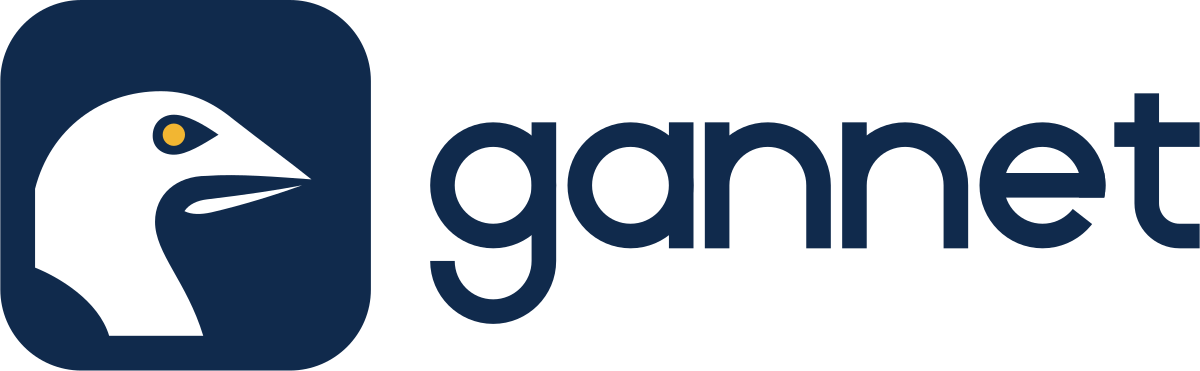
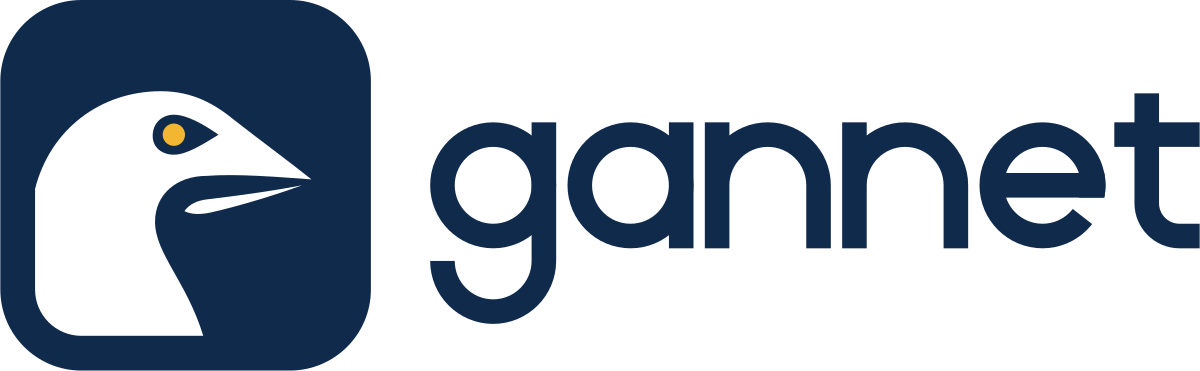
fix(brand): the back of the neck runs straight, and its corner rounds with the tile

Changed region(s): [[0.0308, 0.7116, 0.0925, 0.9191]]

diff --git a/assets/_gen/logo.py b/assets/_gen/logo.py
@@ -47,8 +47,7 @@ HEAD = (
     " C414 242 344 236 292 240"        # underside of the upper mandible
     " C240 240 204 272 204 318"        # gape corner, into the chin
     " C204 372 258 420 286 512"        # throat to the bottom edge
-    " L126 512"
-    " C108 452 40 412 0 396"           # back of the neck
+    " L0 512"                          # back of the neck, straight down
     " Z"
 )
 
@@ -75,12 +74,16 @@ def mark_body(tile=NAVY, uid="t"):
     cx, cy, r = EYE
     s = (512 - 2 * PAD) / 512
     inner_r = TILE_R - PAD
-    # Rounded at the top, square at the bottom: the neck ends in a straight
-    # line across the frame, not in a curve (Dan, 22 Oct 2026: "dont like the
-    # curved bottom").
+    # The frame's corners are concentric with the tile's, so where the neck
+    # meets the bottom-left corner it rounds with the navy curve outside it.
+    # The back of the neck runs straight down to that corner rather than
+    # sweeping into a curved notch (Dan, 22 Oct 2026: "that can be straighten
+    # but round the corner so matches the blue curve").
     a, b = PAD, 512 - PAD
     frame = (f"M{a} {a + inner_r} A{inner_r} {inner_r} 0 0 1 {a + inner_r} {a} H{b - inner_r} "
-             f"A{inner_r} {inner_r} 0 0 1 {b} {a + inner_r} V{b} H{a} Z")
+             f"A{inner_r} {inner_r} 0 0 1 {b} {a + inner_r} V{b - inner_r} "
+             f"A{inner_r} {inner_r} 0 0 1 {b - inner_r} {b} H{a + inner_r} "
+             f"A{inner_r} {inner_r} 0 0 1 {a} {b - inner_r} Z")
     return (
         f'<defs><clipPath id="{uid}"><path d="{frame}"/></clipPath></defs>'
         f'<rect width="512" height="512" rx="{TILE_R}" fill="{tile}"/>'
